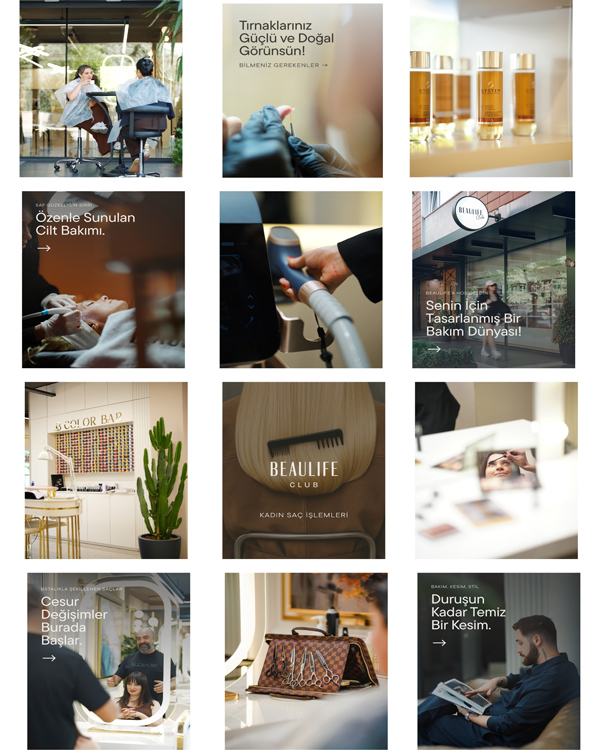
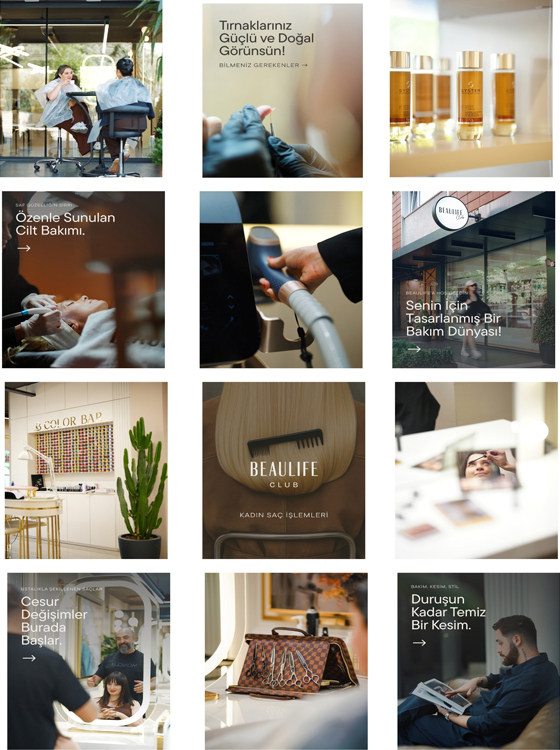
Mobil Optimizasyonu yapıldı Fotoğraflar mobil pikseller için düzeltildi.

diff --git a/src/components/ProjectDetail.css b/src/components/ProjectDetail.css
@@ -923,6 +923,11 @@ body.page-project-detail .header .mobile-cta-button:hover {
   object-position: center;
 }
 
+.beaulife-photo-item.joyce-page-2-center-item img {
+  object-fit: contain;
+  object-position: center;
+}
+
 .joyce-teknoloji-page-2 {
   background-color: #ffffff;
   padding: clamp(90px, 12vw, 130px) clamp(1rem, 2vw, 2rem) clamp(1rem, 2vw, 2rem);
@@ -1157,6 +1162,11 @@ body.page-project-detail .header .mobile-cta-button:hover {
   object-position: center;
 }
 
+.beaulife-photo-item.beaulife-club-center-item img {
+  object-fit: contain;
+  object-position: center;
+}
+
 .turmotsan-page-1 {
   grid-template-columns: 1.2fr 1fr;
   padding-bottom: clamp(2rem, 4vw, 4rem);
@@ -1233,6 +1243,11 @@ body.page-project-detail .header .mobile-cta-button:hover {
   object-fit: cover;
   object-position: center;
   display: block;
+}
+
+.turmotsan-photo-item.turmotsan-photo-item-center img {
+  object-fit: contain;
+  object-position: center;
 }
 
 .turmotsan-page-3 {
@@ -1392,6 +1407,11 @@ body.page-project-detail .header .mobile-cta-button:hover {
 }
 
 .yume-panel-center img {
+  object-fit: contain;
+  object-position: center;
+}
+
+.yume-panel.yume-panel-center-portrait img {
   object-fit: contain;
   object-position: center;
 }
@@ -2852,18 +2872,51 @@ body.page-project-detail .header .mobile-cta-button:hover {
     overflow-y: auto;
     overflow-x: hidden;
     -webkit-overflow-scrolling: touch;
+    padding-bottom: 1rem;
   }
 
   .project-detail-page {
     height: auto !important;
     min-height: auto;
     overflow: visible;
+    margin: 0 !important;
+  }
+
+  .project-detail-page + .project-detail-page {
+    margin-top: 0.75rem !important;
   }
 
   .project-detail-page-1 {
     height: auto !important;
     min-height: auto;
     align-items: start;
+  }
+
+  .project-detail-page-2,
+  .project-detail-page-3,
+  .project-detail-page-4,
+  .project-detail-page-5,
+  .valens-page-2,
+  .valens-page-3,
+  .joyce-page-2,
+  .joyce-page-3,
+  .joyce-page-4,
+  .joyce-teknoloji-page-2,
+  .tozzbike-page-2,
+  .beaulife-page-2,
+  .turmotsan-page-2,
+  .turmotsan-page-3,
+  .yume-page-2,
+  .yume-page-3,
+  .allshape-page-2,
+  .allshape-page-3,
+  .allshape-page-4,
+  .allshape-page-5,
+  .reverie-page-2,
+  .yokote-page-2,
+  .mithras-page-2 {
+    padding-top: 0 !important;
+    padding-bottom: 0 !important;
   }
 
   .project-detail-left,
@@ -2917,11 +2970,64 @@ body.page-project-detail .header .mobile-cta-button:hover {
   .yume-page-3-grid,
   .reverie-page-2-grid,
   .allshape-page-2-layout,
+  .allshape-center-grid,
   .allshape-grid-6 {
     display: grid;
     grid-template-columns: 1fr !important;
     grid-template-rows: auto !important;
     gap: 0.9rem !important;
+  }
+
+  .valens-photo-grid,
+  .valens-grid-left,
+  .valens-grid-right,
+  .valens-grid-top {
+    display: flex !important;
+    flex-direction: column !important;
+    gap: 0.9rem !important;
+    height: auto !important;
+  }
+
+  .tozzbike-page-2-grid {
+    grid-template-areas: none !important;
+  }
+
+  .beaulife-grid-layout {
+    display: flex !important;
+    flex-direction: column !important;
+    gap: 0.9rem !important;
+    height: auto !important;
+  }
+
+  .joyce-page-2-left,
+  .joyce-teknoloji-page-2-left {
+    display: flex !important;
+    flex-direction: column !important;
+    gap: 0.9rem !important;
+    width: 100% !important;
+    height: auto !important;
+  }
+
+  .joyce-page-2-top,
+  .joyce-page-2-bottom,
+  .joyce-teknoloji-page-2-top,
+  .joyce-teknoloji-page-2-bottom,
+  .beaulife-photo-item {
+    width: 100% !important;
+    height: auto !important;
+    flex: none !important;
+  }
+
+  .tozzbike-hero,
+  .tozzbike-logo,
+  .tozzbike-rider,
+  .tozzbike-tire {
+    grid-area: auto !important;
+  }
+
+  .allshape-center-grid {
+    grid-template-columns: 1fr !important;
+    grid-template-rows: auto !important;
   }
 
   .project-detail-page img,
@@ -2947,5 +3053,28 @@ body.page-project-detail .header .mobile-cta-button:hover {
     object-fit: contain !important;
     object-position: center;
     display: block;
+  }
+
+  .joyce-page-2,
+  .beaulife-page-2,
+  .turmotsan-page-2,
+  .turmotsan-page-3,
+  .yume-page-2,
+  .yume-page-3 {
+    padding-left: 0.75rem !important;
+    padding-right: 0.75rem !important;
+  }
+
+  .joyce-page-2-grid,
+  .beaulife-grid-layout,
+  .turmotsan-grid-layout,
+  .turmotsan-page-3-grid,
+  .yume-grid-layout,
+  .yume-page-3-grid {
+    width: 100% !important;
+    margin: 0 !important;
+    padding-left: 0 !important;
+    padding-right: 0 !important;
+    box-sizing: border-box;
   }
 }

diff --git a/src/components/YumeBoulangerieDetail.js b/src/components/YumeBoulangerieDetail.js
@@ -73,7 +73,7 @@ Dijital pazarlama ve reklam yönetimi süreçlerinde, ürün ve mağaza trafiği
             <div className="yume-panel">
               <img src="/images/YumeBoulangerie/YumeBoulangerie2.jpg" alt="Yume Boulangerie" />
             </div>
-            <div className="yume-panel yume-panel-center">
+            <div className="yume-panel yume-panel-center yume-panel-center-portrait">
               <img src="/images/YumeBoulangerie/YumeBoulangerie3.jpg" alt="Yume Boulangerie" />
             </div>
             <div className="yume-panel">

diff --git a/src/components/TurmotsanDetail.js b/src/components/TurmotsanDetail.js
@@ -86,7 +86,7 @@ Ortaya çıkan bütüncül yapı sayesinde Turmotsan Motors, dijital dünyada ya
             <div className="turmotsan-photo-item">
               <img src="/images/Turmotsan/Turmotsan2.jpg" alt="Turmotsan" />
             </div>
-            <div className="turmotsan-photo-item">
+            <div className="turmotsan-photo-item turmotsan-photo-item-center">
               <img src="/images/Turmotsan/Turmotsan3.jpg" alt="Turmotsan" />
             </div>
             <div className="turmotsan-photo-item">

diff --git a/src/components/BeaulifeClubDetail.js b/src/components/BeaulifeClubDetail.js
@@ -80,7 +80,7 @@ Bu kapsamlı çalışma sayesinde Beaulife Club, sosyal medyada yalnızca kampan
               <img src="/images/BeaulifeClub/BeaulifeClub2.jpg" alt="Beaulife Club" />
             </div>
 
-            <div className="beaulife-photo-item beaulife-photo-center">
+            <div className="beaulife-photo-item beaulife-photo-center beaulife-club-center-item">
               <img src="/images/BeaulifeClub/BeaulifeClub3.jpg" alt="Beaulife Club" />
             </div>
 

diff --git a/src/components/JoyceDetail.js b/src/components/JoyceDetail.js
@@ -94,7 +94,7 @@ Bu çalışmalar, Joyce'un dijital dünyada yalnızca bir araç üreticisi deği
                 </div>
               </div>
             </div>
-            <div className="beaulife-photo-item">
+            <div className="beaulife-photo-item joyce-page-2-center-item">
               <img src="/images/Joyce/Joyce6.jpg" alt="Joyce" />
             </div>
             <div className="beaulife-photo-item">
